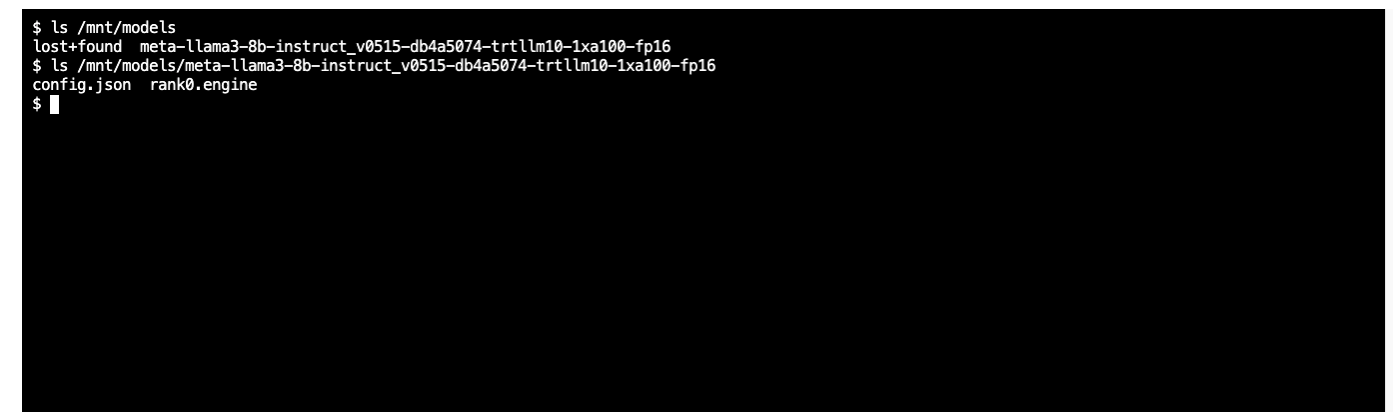
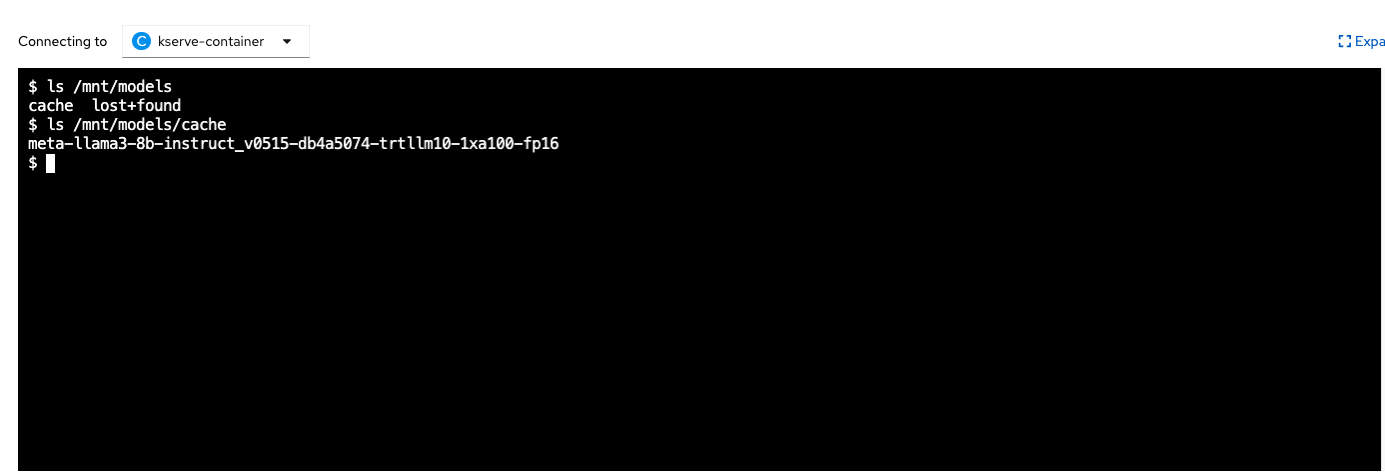
Aligning with NVIDIA repo

Changed region(s): [[0.0, 0.0, 1.0, 0.9976]]

diff --git a/nim-runtime-published/a100/24.05/pvc/readme.md b/nim-runtime-published/a100/24.05/pvc/readme.md
@@ -31,7 +31,7 @@ NGC_EXE=$(pwd)/ngc-cli/ngc
 $NGC_EXE config set
 ```
 ```
-$NGC_EXE registry model download-version --dest "./model-store" "mphexwv2ysej/meta-llama3-8b-instruct:0515-db4a5074-trtllm10-1xa100-fp16"
+$NGC_EXE registry model download-version --dest "./model-store/cache" "mphexwv2ysej/meta-llama3-8b-instruct:0515-db4a5074-trtllm10-1xa100-fp16"
 ```
 
 ## Create the runtime
